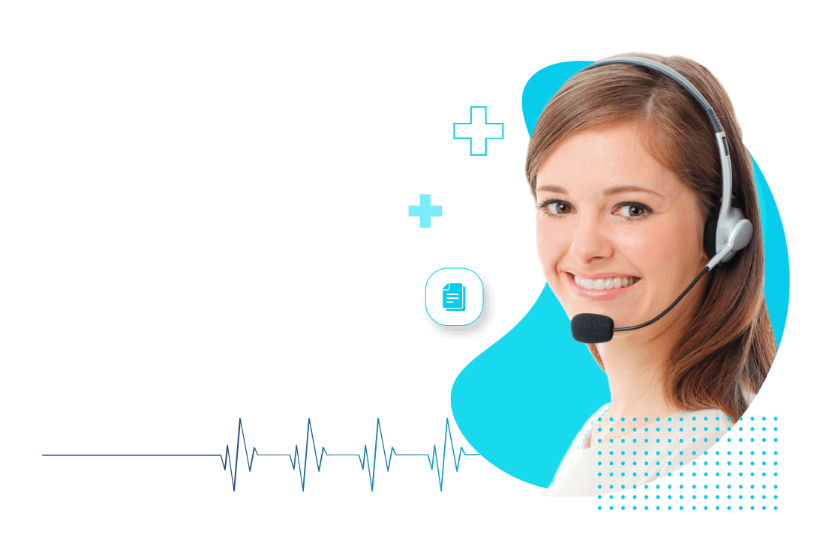
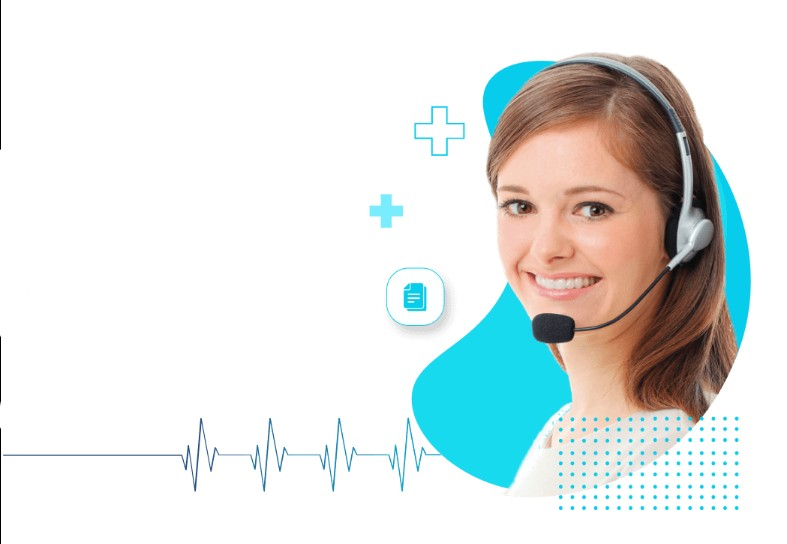
added themetoggle dark mode

Changed region(s): [[0.2135, 0.0938, 0.9454, 0.9375], [0.4574, 0.3438, 0.5489, 0.4375], [0.0, 0.8125, 0.0305, 0.8438]]

diff --git a/src/components/shared/footer/Footer.jsx b/src/components/shared/footer/Footer.jsx
@@ -1,6 +1,8 @@
+import Image from 'next/image';
 import React from 'react';
-import { FaXTwitter, FaYoutube, FaFacebook, FaBuilding } from "react-icons/fa6";
-
+import { BsInstagram } from 'react-icons/bs';
+import { FaXTwitter, FaYoutube, FaFacebook } from "react-icons/fa6";
+import footerLogo from '@/assets/images/navLogo.png'
 const Footer = () => {
   return (
     <footer className="relative w-full bg-slate-900 text-slate-300 overflow-hidden py-1 mt-30">
@@ -12,27 +14,34 @@ const Footer = () => {
 
         <div className="grid grid-cols-1 md:grid-cols-2 lg:grid-cols-5 gap-8 mb-12">
           
-          <div className="lg:col-span-2 flex flex-col gap-4">
-            <div className="flex items-center gap-3 text-white">
+<div className="lg:col-span-2 flex flex-col gap-4">
+  {/* Logo + Icon Row */}
+    <div className="flex-shrink-0">
+  <Image
+    src={footerLogo}
+    alt="DocAppointment Logo"
+    className="w-32 h-auto sm:w-40 md:w-48 lg:w-55"
+  />
+</div>
 
-              <div className="p-2.5 rounded-xl bg-gradient-to-br from-blue-500 to-cyan-500 shadow-lg shadow-blue-500/30">
-                <FaBuilding className="text-2xl text-white" />
-              </div>
-              <span className="text-xl font-bold tracking-wider bg-gradient-to-r from-white to-slate-400 bg-clip-text text-transparent">
-                DocAppointment Industries Ltd.
-              </span>
-            </div>
-            <p className="text-sm max-w-xs leading-relaxed text-slate-400">
-              Providing reliable tech solutions and outstanding services since 1992.
-            </p>
-          </div>
+  {/* Company Name */}
+  <span className="text-sm sm:text-base font-bold text-white leading-snug">
+    DocAppointment Industries{" "}
+    <span className="text-cyan-400">Ltd.</span>
+  </span>
+
+  {/* Tagline */}
+  <p className="text-xs sm:text-sm leading-relaxed text-slate-400 max-w-[260px]">
+    Providing reliable tech solutions and outstanding services since 1992.
+  </p>
+</div>
 
           <div className="flex flex-col gap-3">
             <h6 className="text-sm font-semibold uppercase tracking-wider text-white">
               Services
             </h6>
-            <a href="#" className="text-sm text-slate-400 hover:text-cyan-400 transition-colors duration-300">Branding</a>
-            <a href="#" className="text-sm text-slate-400 hover:text-cyan-400 transition-colors duration-300">Design</a>
+            <a href={"/allNav/appointment"} className="text-sm text-slate-400 hover:text-cyan-400 transition-colors duration-300">Appointments</a>
+            <a href={"/allNav/allAppointments"} className="text-sm text-slate-400 hover:text-cyan-400 transition-colors duration-300">All Appointments</a>
             <a href="#" className="text-sm text-slate-400 hover:text-cyan-400 transition-colors duration-300">Marketing</a>
             <a href="#" className="text-sm text-slate-400 hover:text-cyan-400 transition-colors duration-300">Advertisement</a>
           </div>
@@ -41,8 +50,8 @@ const Footer = () => {
             <h6 className="text-sm font-semibold uppercase tracking-wider text-white">
               Company
             </h6>
-            <a href="#" className="text-sm text-slate-400 hover:text-cyan-400 transition-colors duration-300">About us</a>
-            <a href="#" className="text-sm text-slate-400 hover:text-cyan-400 transition-colors duration-300">Contact</a>
+            <a href="/allNav/contact" className="text-sm text-slate-400 hover:text-cyan-400 transition-colors duration-300">About us</a>
+            <a href="/allNav/contact" className="text-sm text-slate-400 hover:text-cyan-400 transition-colors duration-300">Contact</a>
             <a href="#" className="text-sm text-slate-400 hover:text-cyan-400 transition-colors duration-300">Jobs</a>
             <a href="#" className="text-sm text-slate-400 hover:text-cyan-400 transition-colors duration-300">Press kit</a>
           </div>
@@ -70,6 +79,9 @@ const Footer = () => {
             </a>
             <a href="#" aria-label="YouTube" className="p-2 rounded-lg bg-white/5 hover:bg-red-500 hover:text-white transition-all duration-300 hover:-translate-y-1 shadow-md">
               <FaYoutube className="text-base" />
+            </a>
+            <a href="#" aria-label="Instagram" className="p-2 rounded-lg bg-white/5 hover:bg-red-500 hover:text-white transition-all duration-300 hover:-translate-y-1 shadow-md">
+              <BsInstagram className="text-base" />
             </a>
             <a href="#" aria-label="Facebook" className="p-2 rounded-lg bg-white/5 hover:bg-blue-600 hover:text-white transition-all duration-300 hover:-translate-y-1 shadow-md">
               <FaFacebook className="text-base" />

diff --git a/src/app/allNav/contact/page.jsx b/src/app/allNav/contact/page.jsx
@@ -13,7 +13,7 @@ const Contact = () => {
   };
 
   return (
-    <div className="bg-slate-50 min-h-screen text-slate-800 font-sans">
+    <div className="min-h-screen text-slate-800 font-sans">
       
       {/* Hero Section */}
       <div className="bg-gradient-to-r from-slate-900 via-indigo-950 to-slate-900 text-white py-16 px-4 text-center">
@@ -32,7 +32,7 @@ const Contact = () => {
       <div className="max-w-7xl mx-auto px-4 py-12 grid grid-cols-1 lg:grid-cols-3 gap-8">
         
         {/* Left Side: Contact Information Card */}
-        <div className="bg-white rounded-2xl p-6 md:p-8 shadow-sm border border-slate-100 flex flex-col justify-between">
+        <div className="rounded-2xl p-6 md:p-8 shadow-sm border border-slate-100 flex flex-col justify-between">
           <div>
             <h2 className="text-xl font-bold text-slate-900 mb-2">Contact Information</h2>
             <p className="text-slate-500 text-sm mb-6">
@@ -93,7 +93,7 @@ const Contact = () => {
         </div>
 
         {/* Right Side: Contact Form Card (Spans 2 columns on large screens) */}
-        <div className="bg-white rounded-2xl p-6 md:p-8 shadow-sm border border-slate-100 lg:col-span-2">
+        <div className="rounded-2xl p-6 md:p-8 shadow-sm border border-slate-100 lg:col-span-2">
           <h2 className="text-xl font-bold text-slate-900 mb-1">Send Us a Message</h2>
           <p className="text-slate-500 text-sm mb-6">
             We values your feedback. Please fill up this form carefully.

diff --git a/src/components/themeToggle/ThemeToggle.jsx b/src/components/themeToggle/ThemeToggle.jsx
@@ -1,0 +1,34 @@
+'use client'
+import { Switch } from '@heroui/react';
+import { Sun, Moon } from 'lucide-react';
+import { useTheme } from 'next-themes';
+import React from 'react';
+
+const ThemeToggle = () => {
+   const { theme, setTheme } = useTheme();
+  return (
+    <Switch onChange={() => setTheme(theme === "dark" ? "light" : "dark")}>
+      {({isSelected}) => (
+        <>
+          <Switch.Control
+            className={`h-[31px] w-[51px] bg-blue-500 ${isSelected ? "bg-cyan-500 shadow-[0_0_12px_rgba(6,182,212,0.5)]" : ""}`}
+          >
+            <Switch.Thumb
+              className={`size-[27px] bg-white shadow-sm ${isSelected ? "ms-[22px] shadow-lg" : ""}`}
+            >
+              <Switch.Icon>
+                {isSelected ? (
+                  <Sun className="size-4 text-cyan-600" />
+                ) : (
+                  <Moon className="size-4 text-blue-600" />
+                )}
+              </Switch.Icon>
+            </Switch.Thumb>
+          </Switch.Control>
+        </>
+      )}
+    </Switch>
+  );
+};
+
+export default ThemeToggle;

diff --git a/src/components/shared/navbar/Navbar.jsx b/src/components/shared/navbar/Navbar.jsx
@@ -10,6 +10,7 @@ import { authClient } from '@/lib/auth-client';
 import { Menu, X } from 'lucide-react';
 import { usePathname, useRouter } from 'next/navigation';
 import { toast } from 'react-toastify';
+import ThemeToggle from '@/components/themeToggle/ThemeToggle';
 
 const Navbar = () => {
   const router = useRouter()
@@ -69,8 +70,11 @@ const Navbar = () => {
         }`}
         style={{ borderBottom: isScrolled ? '1.5px solid rgba(0,180,216,0.10)' : '1.5px solid transparent' }}
       >
+        
         <div className='max-w-7xl mx-auto px-4 sm:px-6 flex justify-between items-center'>
-
+          <div>
+          
+        </div>
           {/* Logo */}
           <Link href="/" className="shrink-0 group">
             <Image
@@ -87,7 +91,7 @@ const Navbar = () => {
           <ul className='hidden lg:flex items-center gap-1 xl:gap-2'>
             {links}
           </ul>
-
+          <ThemeToggle />
           {/* Desktop Right Side */}
           <div className='hidden lg:flex items-center gap-3'>
             {user ? (

diff --git a/src/app/layout.jsx b/src/app/layout.jsx
@@ -3,6 +3,7 @@ import "./globals.css";
 import Navbar from "@/components/shared/navbar/Navbar";
 import Footer from "@/components/shared/footer/Footer";
 import { ToastContainer } from "react-toastify";
+import NextThemeProvider from "@/providers/NextThemeProvider";
 
 const geistSans = Geist({
   variable: "--font-geist-sans",
@@ -53,16 +54,18 @@ export const metadata = {
 export default function RootLayout({ children }) {
   return (
     <html
-      lang="en"
+      lang="en" suppressHydrationWarning
       className={`${geistSans.variable} ${geistMono.variable} h-full antialiased`}
     >
-      <body className="min-h-full flex flex-col">
-        <ToastContainer />
+      <body className="min-h-full flex flex-col bg-background text-foreground">
+        <NextThemeProvider>
+          <ToastContainer />
         <Navbar />
         <main className="flex-1">
           {children}
         </main>
         <Footer />
+        </NextThemeProvider>
       </body>
     </html>
   );

diff --git a/src/app/allNav/allAppointments/page.jsx b/src/app/allNav/allAppointments/page.jsx
@@ -40,7 +40,7 @@ const AllAppointment = async () => {
         </div>
 
         {/* Live Status Counter Box */}
-        <div className="flex items-center gap-4 bg-gradient-to-br from-blue-50/60 via-white to-blue-50/20 dark:from-neutral-900 dark:to-neutral-950/40 border-2 border-blue-100/60 dark:border-blue-950/40 p-4 rounded-2xl shadow-lg shadow-slate-100/50 dark:shadow-black/20 shrink-0">
+        <div className="flex items-center gap-4  border-2 border-blue-100/60 dark:border-blue-950/40 p-4 rounded-2xl shadow-lg shadow-slate-100/50 dark:shadow-black/20 shrink-0">
           <div className="p-3 bg-blue-500 text-white rounded-xl shadow-md shadow-blue-500/20">
             <IconCalendarCheck size={24} stroke={2} />
           </div>

diff --git a/src/components/homepage/suppport/Support.jsx b/src/components/homepage/suppport/Support.jsx
@@ -1,11 +1,11 @@
 import Image from 'next/image';
 import React from 'react';
-import support from '@/assets/images/support.png'; 
+import support from '@/assets/images/contact.png'; 
 import Link from 'next/link';
 
 const Support = () => {
   return (
-    <div className="w-full bg-white px-6 py-12 md:px-16 lg:px-24 flex flex-col md:flex-row items-center justify-between gap-8 max-w-7xl mx-auto">
+    <div className="w-full px-6 py-12 md:px-16 lg:px-24 flex flex-col md:flex-row items-center justify-between gap-8 max-w-7xl mx-auto">
       
       <div className="flex-1 max-w-xl text-center md:text-left">
         <h3 className="text-[#00c5fb] font-semibold text-sm tracking-wide uppercase mb-2">

diff --git a/src/app/allNav/appointment/page.jsx b/src/app/allNav/appointment/page.jsx
@@ -43,9 +43,9 @@ export default function AppointmentForm() {
   }
 };
   return (
-    <div className="flex min-h-screen items-center justify-center bg-gray-100 p-4 mt-20">
+    <div className="flex min-h-screen items-center justify-center p-4 mt-20">
       {/* Form Container */}
-      <div className="w-full max-w-2xl overflow-hidden rounded-2xl bg-white shadow-lg">
+      <div className="w-full max-w-2xl overflow-hidden rounded-2xl border-2 border-gray-300 shadow-lg">
         
         {/* Header Section */}
         <div className="bg-gradient-to-r from-sky-400 to-blue-500 py-6 text-center text-white">

diff --git a/src/components/homepage/whyChooseUs/WhyChooseUs.jsx b/src/components/homepage/whyChooseUs/WhyChooseUs.jsx
@@ -41,7 +41,7 @@ const features = [
 
 const WhyChooseUs = ()=> {
   return (
-    <section className="py-20 bg-white">
+    <section className="py-20">
       <div className="max-w-7xl mx-auto px-4 sm:px-6 lg:px-8">
         <div className="grid lg:grid-cols-2 gap-16 items-center">
           {/* Left Content */}

diff --git a/src/providers/NextThemeProvider.jsx b/src/providers/NextThemeProvider.jsx
@@ -1,0 +1,13 @@
+'use client'
+import { ThemeProvider } from 'next-themes';
+import React from 'react';
+
+const NextThemeProvider = ({children}) => {
+  return (
+    <ThemeProvider attribute="class" defaultTheme="light">
+      {children}
+    </ThemeProvider>
+  );
+};
+
+export default NextThemeProvider;

diff --git a/src/app/globals.css b/src/app/globals.css
@@ -19,6 +19,13 @@
   background: #06b6d4;
   opacity: 1;
 }
+
+:root {
+  /* Override any color variable */
+  --accent: oklch(0.7 0.25 260);
+  --success: oklch(0.65 0.15 155);
+}
+
 /* :root {
   --background: #ffffff;
   --foreground: #171717;
